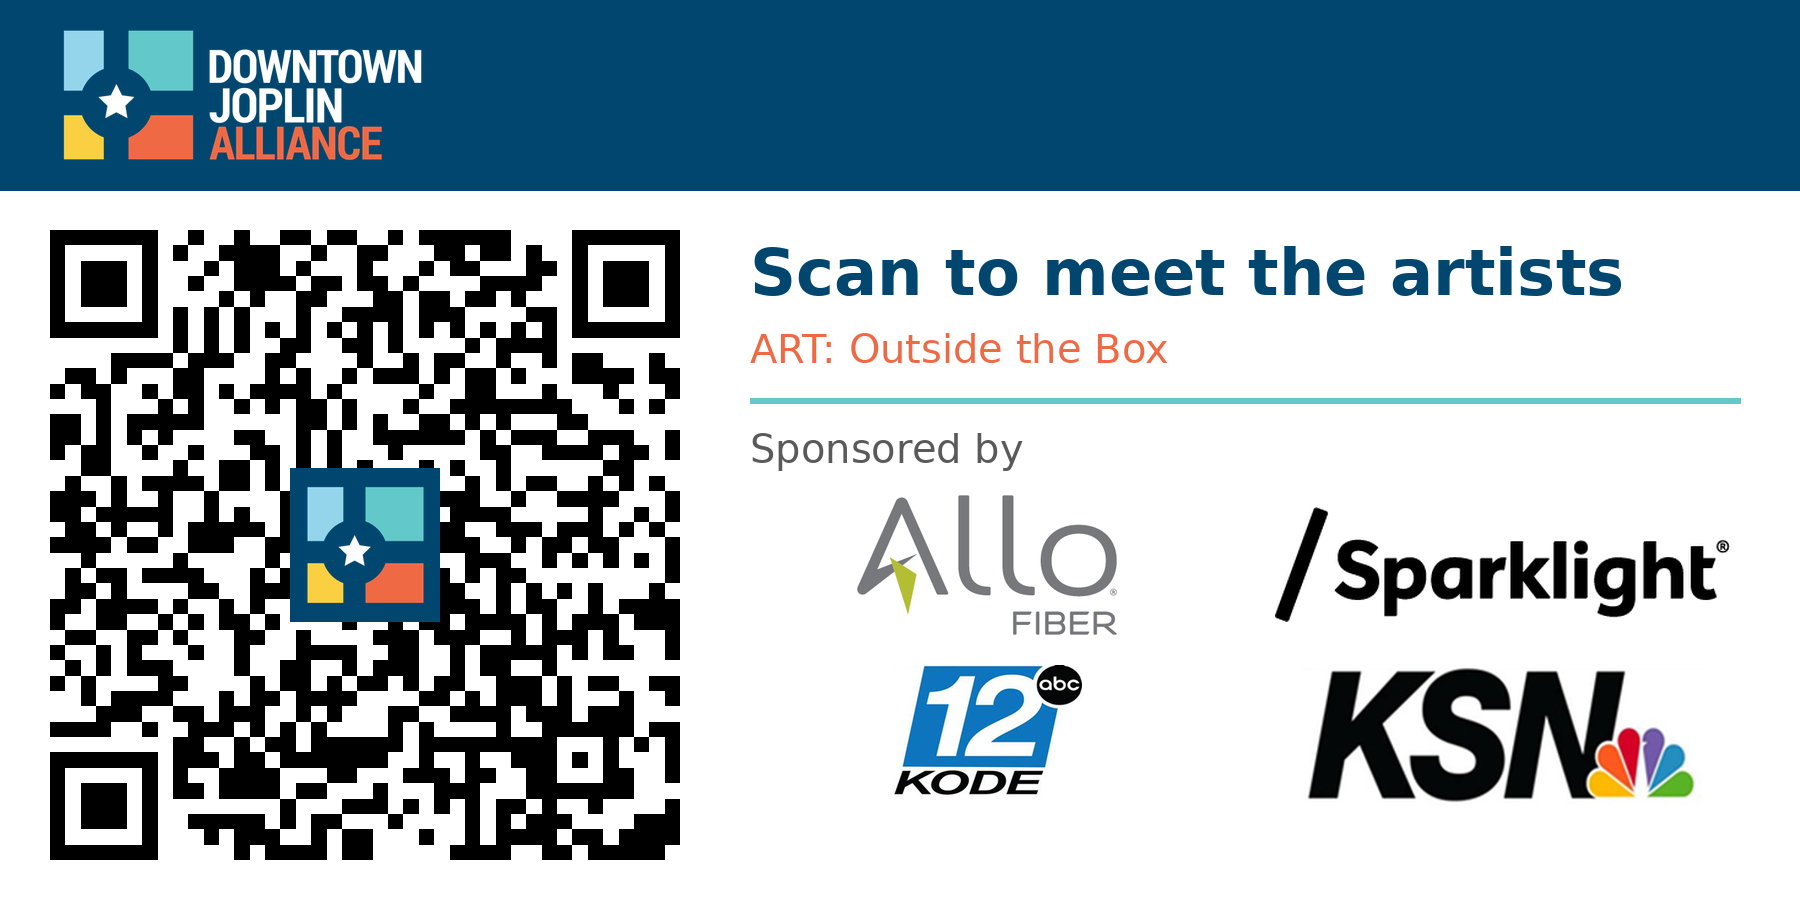
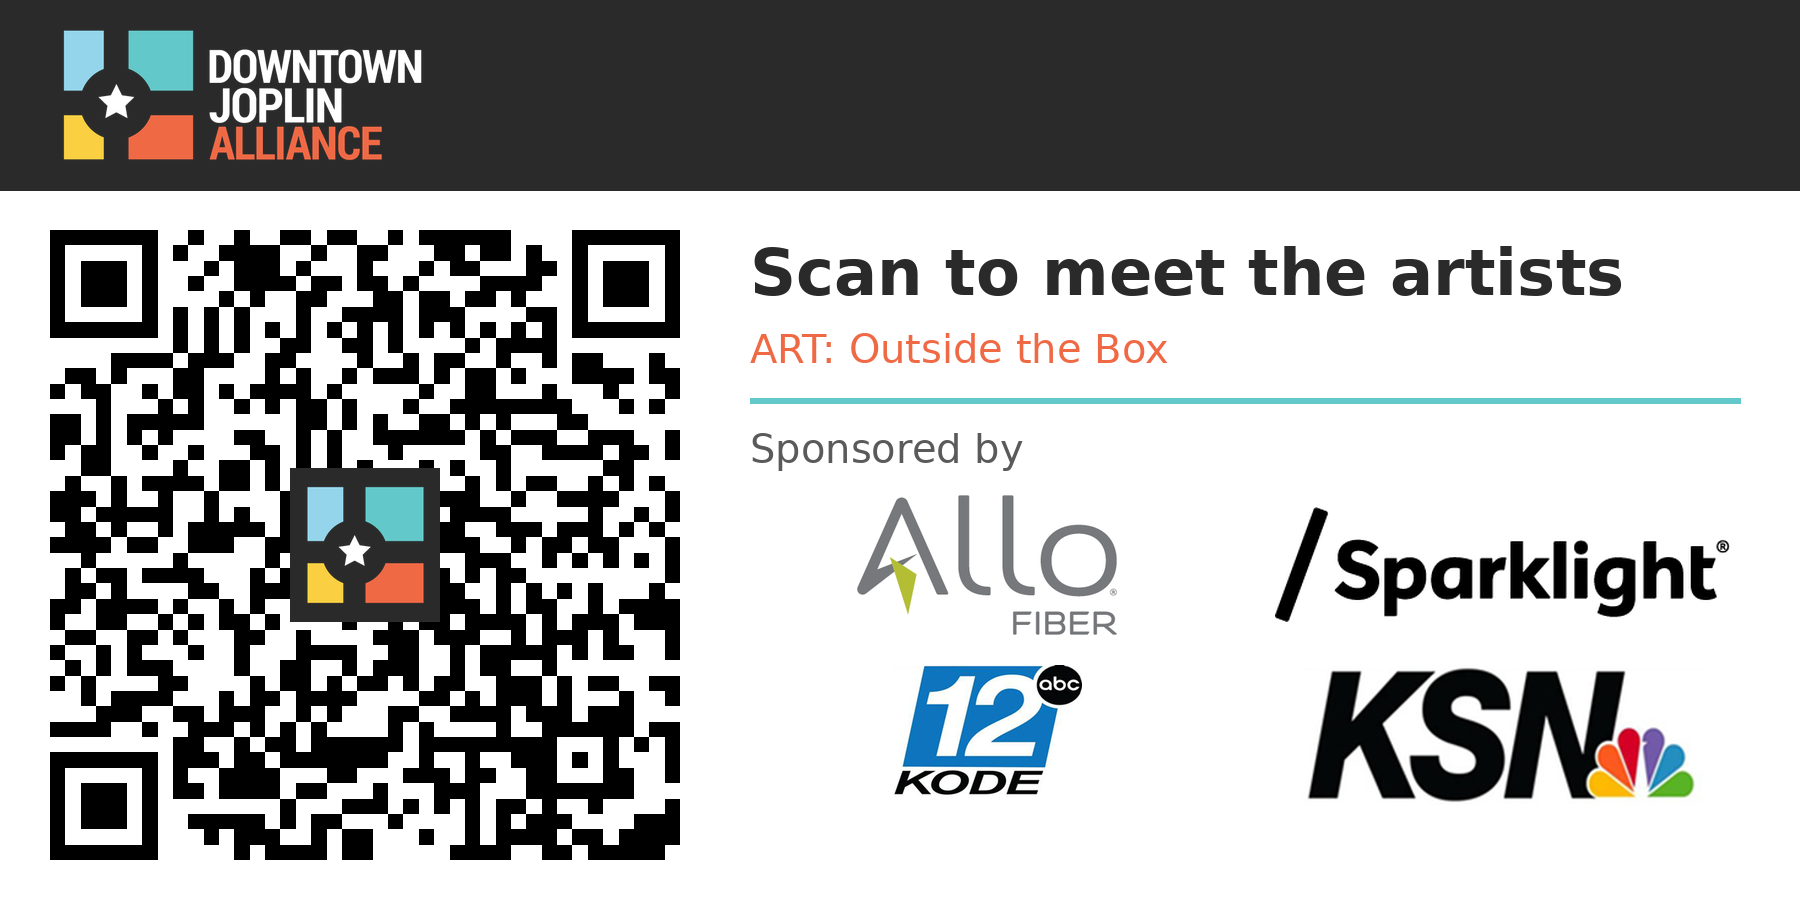
Match Downtown Joplin site styling on preview pages

Changed region(s): [[0.0, 0.0, 1.0, 0.2178], [0.4044, 0.28, 0.9022, 0.3422], [0.1556, 0.4978, 0.2489, 0.7156]]

diff --git a/downtown-joplin-art/index.html b/downtown-joplin-art/index.html
@@ -7,52 +7,82 @@
   <title>ART: Outside the Box (Concept)</title>
   <link rel="stylesheet" href="https://fonts.googleapis.com/css2?family=Open+Sans:wght@400;600;700;800&display=swap">
   <style>
-    :root{--teal:#62c8c9;--navy:#00466e;--blue:#006799;--orange:#ef6944;--ink:#333}
+    :root{--teal:#62c8c9;--blue:#2ea3f2;--dark:#2a2a2a;--orange:#ef6944}
     *{box-sizing:border-box}
-    body{margin:0;font-family:'Open Sans',sans-serif;color:var(--ink);line-height:1.6;background:#fff}
-    header{background:var(--navy);padding:14px 16px}
-    header img{height:48px;display:block;max-width:100%}
-    .banner{background:#fff3;display:none}
-    .preview{background:#fff8d6;color:#5a4a00;text-align:center;font-size:.8rem;padding:6px 12px}
-    .hero{padding:32px 16px 20px;max-width:960px;margin:0 auto}
-    .hero h1{font-size:2rem;line-height:1.15;margin:0;color:var(--navy);font-weight:800}
-    .hero h2{font-size:1.05rem;color:var(--orange);margin:6px 0 14px;font-weight:700}
-    .hero p{max-width:640px;margin:0}
-    .bar{height:6px;background:linear-gradient(90deg,#97d5ee 25%,var(--teal) 25% 50%,#fcd145 50% 75%,var(--orange) 75%)}
-    .chips{max-width:960px;margin:0 auto;padding:12px 16px;display:flex;gap:8px;flex-wrap:wrap}
-    .chip{border:2px solid var(--teal);background:#fff;color:var(--navy);font:600 .9rem 'Open Sans';padding:6px 14px;border-radius:999px;cursor:pointer}
-    .chip.on{background:var(--teal);color:#00334d}
-    .grid{max-width:960px;margin:0 auto;padding:4px 16px 32px;display:grid;grid-template-columns:repeat(auto-fill,minmax(250px,1fr));gap:18px}
-    .card{border:1px solid #dde4e7;border-radius:6px;overflow:hidden;background:#fff}
-    .art{aspect-ratio:4/3;display:flex;align-items:center;justify-content:center;color:#fff;font-weight:700;font-size:.9rem;letter-spacing:.04em}
-    .body{padding:12px 14px 14px}
-    .box{font-size:.75rem;font-weight:700;text-transform:uppercase;color:var(--blue);letter-spacing:.06em}
-    .body h3{margin:2px 0 2px;font-size:1.05rem;color:var(--navy)}
-    .body p{margin:0;font-size:.88rem;color:#555}
-    .cat{display:inline-block;margin-top:8px;font-size:.72rem;font-weight:700;background:#eef7f7;color:var(--blue);padding:2px 8px;border-radius:3px}
-    .sponsors{background:#f4f7f8;padding:28px 16px;text-align:center}
-    .sponsors h4{margin:0 0 16px;color:var(--navy);text-transform:uppercase;letter-spacing:.08em;font-size:.85rem}
-    .logos{max-width:760px;margin:0 auto;display:flex;flex-wrap:wrap;gap:20px 36px;justify-content:center;align-items:center}
+    body{margin:0;font-family:'Open Sans',Arial,sans-serif;font-size:14px;line-height:1.7em;font-weight:500;color:#666;background:#fff;-webkit-font-smoothing:antialiased}
+    a{color:inherit;text-decoration:none}
+    .preview{background:#fff8d6;color:#5a4a00;text-align:center;font-size:12px;padding:6px 12px}
+    header{background:var(--dark);box-shadow:0 1px 0 rgba(0,0,0,.1)}
+    .hwrap{max-width:1080px;margin:0 auto;height:80px;padding:0 20px;display:flex;align-items:center;justify-content:space-between}
+    header img{height:56px;width:auto;display:block}
+    nav ul{list-style:none;margin:0;padding:0;display:flex;gap:22px}
+    nav a{color:var(--teal);font-weight:700;font-size:14px;transition:opacity .4s}
+    nav a:hover{opacity:.7}
+    nav a.cur{color:var(--teal)}
+    .menubtn{display:none;background:none;border:0;color:var(--blue);font-size:30px;cursor:pointer;line-height:1}
+    @media(max-width:900px){nav{display:none;position:absolute;left:0;right:0;top:80px;background:var(--dark);padding:8px 20px 16px;z-index:5}nav.open{display:block}nav ul{flex-direction:column;gap:10px}.menubtn{display:block}header{position:relative}}
+    .wrap{max-width:1080px;margin:0 auto;padding:0 20px}
+    .hero{padding:40px 0 14px}
+    h1,h2,h3,h4{color:#333;font-weight:700;line-height:1em;margin:0}
+    h1{font-size:32px;padding-bottom:10px}
+    .sub{font-size:18px;font-weight:700;color:var(--orange);padding-bottom:12px}
+    .hero p{max-width:640px;margin:0;font-size:14px}
+    .chips{display:flex;gap:10px;flex-wrap:wrap;padding:14px 0 18px}
+    .chip{font:500 16px/1.7em 'Open Sans',Arial,sans-serif;padding:.1em .9em;background:transparent;border:2px solid var(--teal);border-radius:3px;color:var(--teal);cursor:pointer;transition:all .2s}
+    .chip:hover{background:var(--dark);border-color:var(--dark);color:#fff}
+    .chip.on{background:var(--teal);color:#fff}
+    .grid{display:grid;grid-template-columns:repeat(auto-fill,minmax(250px,1fr));gap:22px;padding-bottom:40px}
+    .card{background:#fff;box-shadow:0 2px 18px rgba(0,0,0,.1)}
+    .art{aspect-ratio:4/3;display:flex;align-items:center;justify-content:center;color:#fff;font-weight:700;font-size:13px;letter-spacing:.06em}
+    .body{padding:14px 16px 16px}
+    .box{font-size:12px;font-weight:700;text-transform:uppercase;color:var(--teal);letter-spacing:.06em}
+    .body h3{font-size:18px;padding:2px 0 4px}
+    .body p{margin:0}
+    .cat{display:inline-block;margin-top:8px;font-size:11px;font-weight:700;text-transform:uppercase;color:#666;border:1px solid #ddd;padding:0 8px;border-radius:3px}
+    .sponsors{background:#f7f7f7;padding:30px 20px;text-align:center}
+    .sponsors h4{font-size:14px;text-transform:uppercase;padding-bottom:16px}
+    .logos{max-width:760px;margin:0 auto;display:flex;flex-wrap:wrap;gap:20px 40px;justify-content:center;align-items:center}
     .logos img{height:48px;width:auto;max-width:150px;object-fit:contain}
-    footer{background:var(--navy);color:#cfe3ee;text-align:center;font-size:.8rem;padding:16px}
-    @media(min-width:700px){.hero h1{font-size:2.6rem}header img{height:56px}}
+    footer{background:var(--dark);color:#fff;padding:40px 20px 24px}
+    .fcols{max-width:1080px;margin:0 auto;display:grid;grid-template-columns:1.4fr 1fr 1fr 1fr;gap:30px}
+    footer img{width:180px;height:auto;display:block;margin-bottom:14px}
+    footer p{margin:0 0 10px;color:#fff}
+    footer h5{font-size:14px;font-weight:700;text-transform:uppercase;color:#fff;margin:0 0 8px}
+    footer a{display:block;color:var(--teal)}
+    footer a:hover{opacity:.7}
+    .copy{max-width:1080px;margin:26px auto 0;font-size:12px;font-weight:600;color:#aaa}
+    @media(max-width:760px){.fcols{grid-template-columns:1fr}}
   </style>
 </head>
 <body>
 <div class="preview">Concept preview. Artwork and artists below are placeholders.</div>
-<header><img src="img/dja-logo.png" alt="Downtown Joplin Alliance"></header>
-<div class="bar"></div>
-<section class="hero">
-  <h1>ART: Outside the Box</h1>
-  <h2>A Downtown Joplin Utility Box Wrap Project</h2>
-  <p>Downtown's utility boxes are now canvases. Browse the artwork, meet the artists, and find your next box to visit. This is the page every box's QR code leads to.</p>
-</section>
-<div class="chips" id="chips">
-  <button class="chip on" data-f="all">All</button>
-  <button class="chip" data-f="Adult">Adult</button>
-  <button class="chip" data-f="Youth">Youth</button>
+<header>
+  <div class="hwrap">
+    <a href="#"><img src="img/dja-logo.png" alt="Downtown Joplin Alliance"></a>
+    <button class="menubtn" id="menubtn" aria-label="Menu">&#9776;</button>
+    <nav id="nav"><ul>
+      <li><a href="#" class="cur">Events</a></li>
+      <li><a href="#">Do Business Downtown</a></li>
+      <li><a href="#">Visit Downtown</a></li>
+      <li><a href="#">About DJA</a></li>
+      <li><a href="#">Empire Market</a></li>
+    </ul></nav>
+  </div>
+</header>
+<div class="wrap">
+  <section class="hero">
+    <h1>ART: Outside the Box</h1>
+    <div class="sub">A Downtown Joplin Utility Box Wrap Project</div>
+    <p>Downtown's utility boxes are now canvases. Browse the artwork, meet the artists, and find your next box to visit. This is the page every box's QR code leads to.</p>
+  </section>
+  <div class="chips" id="chips">
+    <button class="chip on" data-f="all">All</button>
+    <button class="chip" data-f="Adult">Adult</button>
+    <button class="chip" data-f="Youth">Youth</button>
+  </div>
 </div>
-<section class="grid" id="grid"></section>
+<div class="wrap"><section class="grid" id="grid"></section></div>
+
 <section class="sponsors">
   <h4>Sponsored by</h4>
   <div class="logos">
@@ -62,15 +92,24 @@
     <img src="img/KSNF_Spotter.webp" alt="KSN">
   </div>
 </section>
-<footer>Presented by Downtown Joplin Alliance, the City of Joplin, Spiva Center for the Arts and the Joplin Arts District</footer>
+<footer>
+  <div class="fcols">
+    <div><img src="img/dja-logo.png" alt="DJA Branding"><p>Downtown Joplin Alliance is a not-for-profit organization dedicated to the revitalization of the downtown community as a thriving, safe and attractive center of art, history, enterprise, commerce, culture, residence, and entertainment.</p></div>
+    <div><h5>Events</h5><a href="#">Third Thursday</a><a href="#">First Friday WineShare</a><a href="#">Joplin Empire Market</a><a href="#">Downtown Calendar</a></div>
+    <div><h5>Downtown Joplin Alliance</h5><a href="#">About DJA</a><a href="#">Meet the Board</a><a href="#">Donate</a><a href="#">Contact Us</a></div>
+    <div><h5>Resources</h5><a href="#">Parking Map</a><a href="#">Do Business Downtown</a><a href="#">Endangered Properties Program</a></div>
+  </div>
+  <div class="copy">Presented by Downtown Joplin Alliance, the City of Joplin, Spiva Center for the Arts and the Joplin Arts District. Concept preview.</div>
+</footer>
 <script>
+  document.getElementById('menubtn').onclick=function(){document.getElementById('nav').classList.toggle('open')};
   var art=[
-    ['Box 01','Sample Artwork One','Sample Artist A','Adult','#00466e,#62c8c9'],
+    ['Box 01','Sample Artwork One','Sample Artist A','Adult','#2a2a2a,#62c8c9'],
     ['Box 02','Sample Artwork Two','Sample Artist B','Youth','#ef6944,#fcd145'],
-    ['Box 03','Sample Artwork Three','Sample Artist C','Adult','#006799,#97d5ee'],
+    ['Box 03','Sample Artwork Three','Sample Artist C','Adult','#2ea3f2,#62c8c9'],
     ['Box 04','Sample Artwork Four','Sample Artist D','Adult','#62c8c9,#fcd145'],
-    ['Box 05','Sample Artwork Five','Sample Artist E','Youth','#ef6944,#00466e'],
-    ['Box 06','Sample Artwork Six','Sample Artist F','Adult','#97d5ee,#ef6944']
+    ['Box 05','Sample Artwork Five','Sample Artist E','Youth','#ef6944,#2a2a2a'],
+    ['Box 06','Sample Artwork Six','Sample Artist F','Adult','#62c8c9,#ef6944']
   ];
   var grid=document.getElementById('grid');
   function render(f){

diff --git a/qr-slate/index.html b/qr-slate/index.html
@@ -7,13 +7,13 @@
   <title>ART: Outside the Box QR Slate (Concept)</title>
   <link rel="stylesheet" href="https://fonts.googleapis.com/css2?family=Open+Sans:wght@400;600;700&display=swap">
   <style>
-    body{margin:0;font-family:'Open Sans',sans-serif;background:#f4f7f8;color:#333;line-height:1.6}
+    body{margin:0;font-family:"Open Sans",Arial,sans-serif;background:#f7f7f7;color:#333;line-height:1.6}
     main{max-width:760px;margin:0 auto;padding:32px 16px 48px}
-    h1{color:#00466e;font-size:1.6rem;margin:0 0 4px}
+    h1{color:#333;font-size:1.6rem;margin:0 0 4px}
     .tag{color:#ef6944;font-weight:600;margin:0 0 20px}
     img.slate{width:100%;height:auto;display:block;border:1px solid #d5dde0;background:#fff;box-shadow:0 2px 8px rgba(0,0,0,.08)}
-    p{margin:16px 0}
-    a.btn{display:inline-block;background:#62c8c9;color:#00334d;font-weight:700;padding:10px 18px;border-radius:4px;text-decoration:none}
+    p{margin:16px 0;font-weight:500;color:#666}
+    a.btn{display:inline-block;background:#62c8c9;color:#fff;font-weight:700;padding:10px 18px;border-radius:4px;text-decoration:none}
     ul{padding-left:20px}
     .note{font-size:.85rem;color:#666}
   </style>
